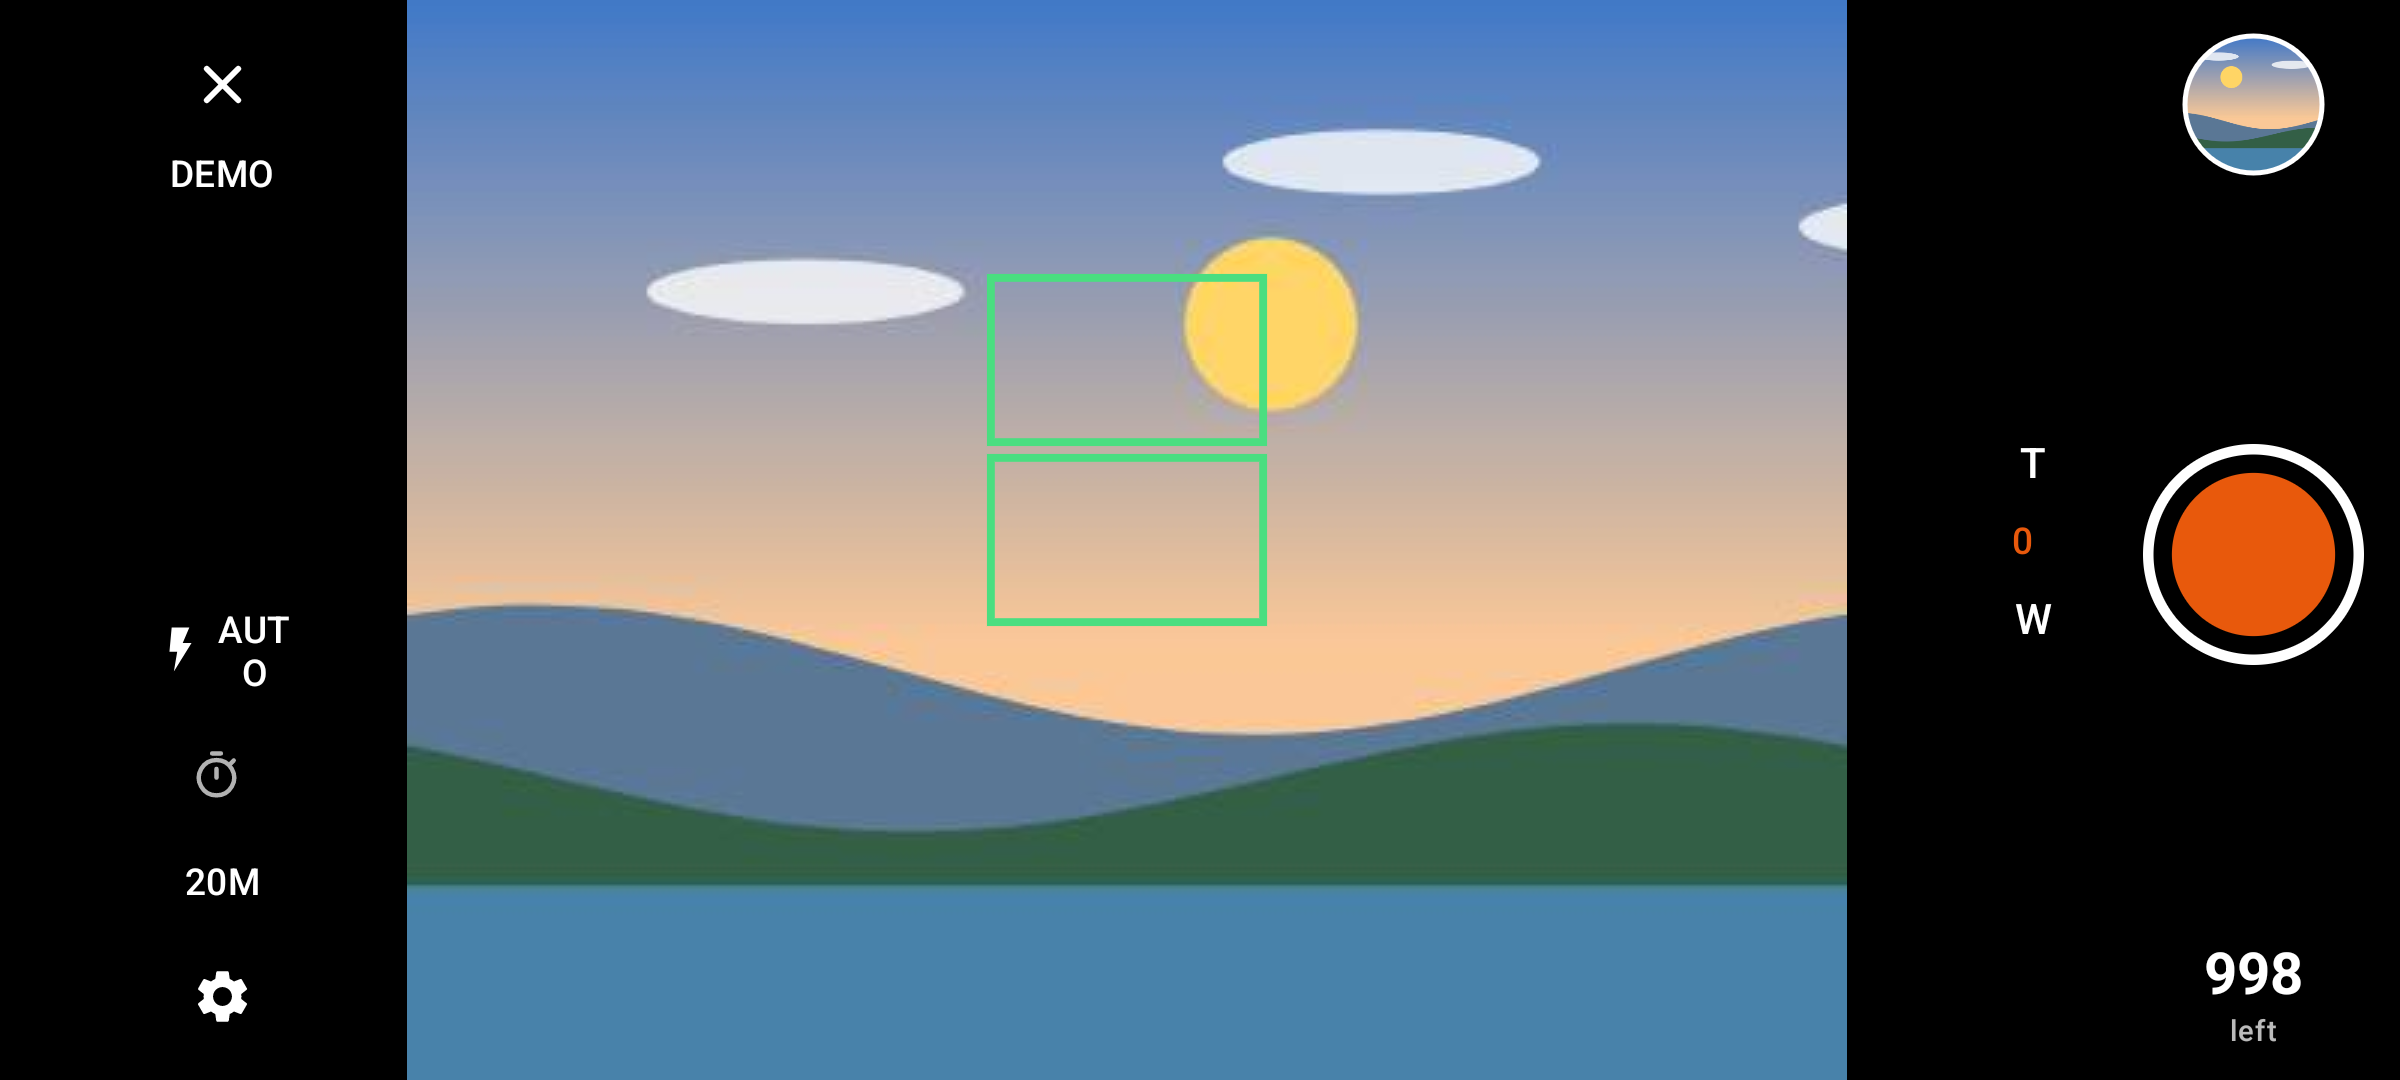
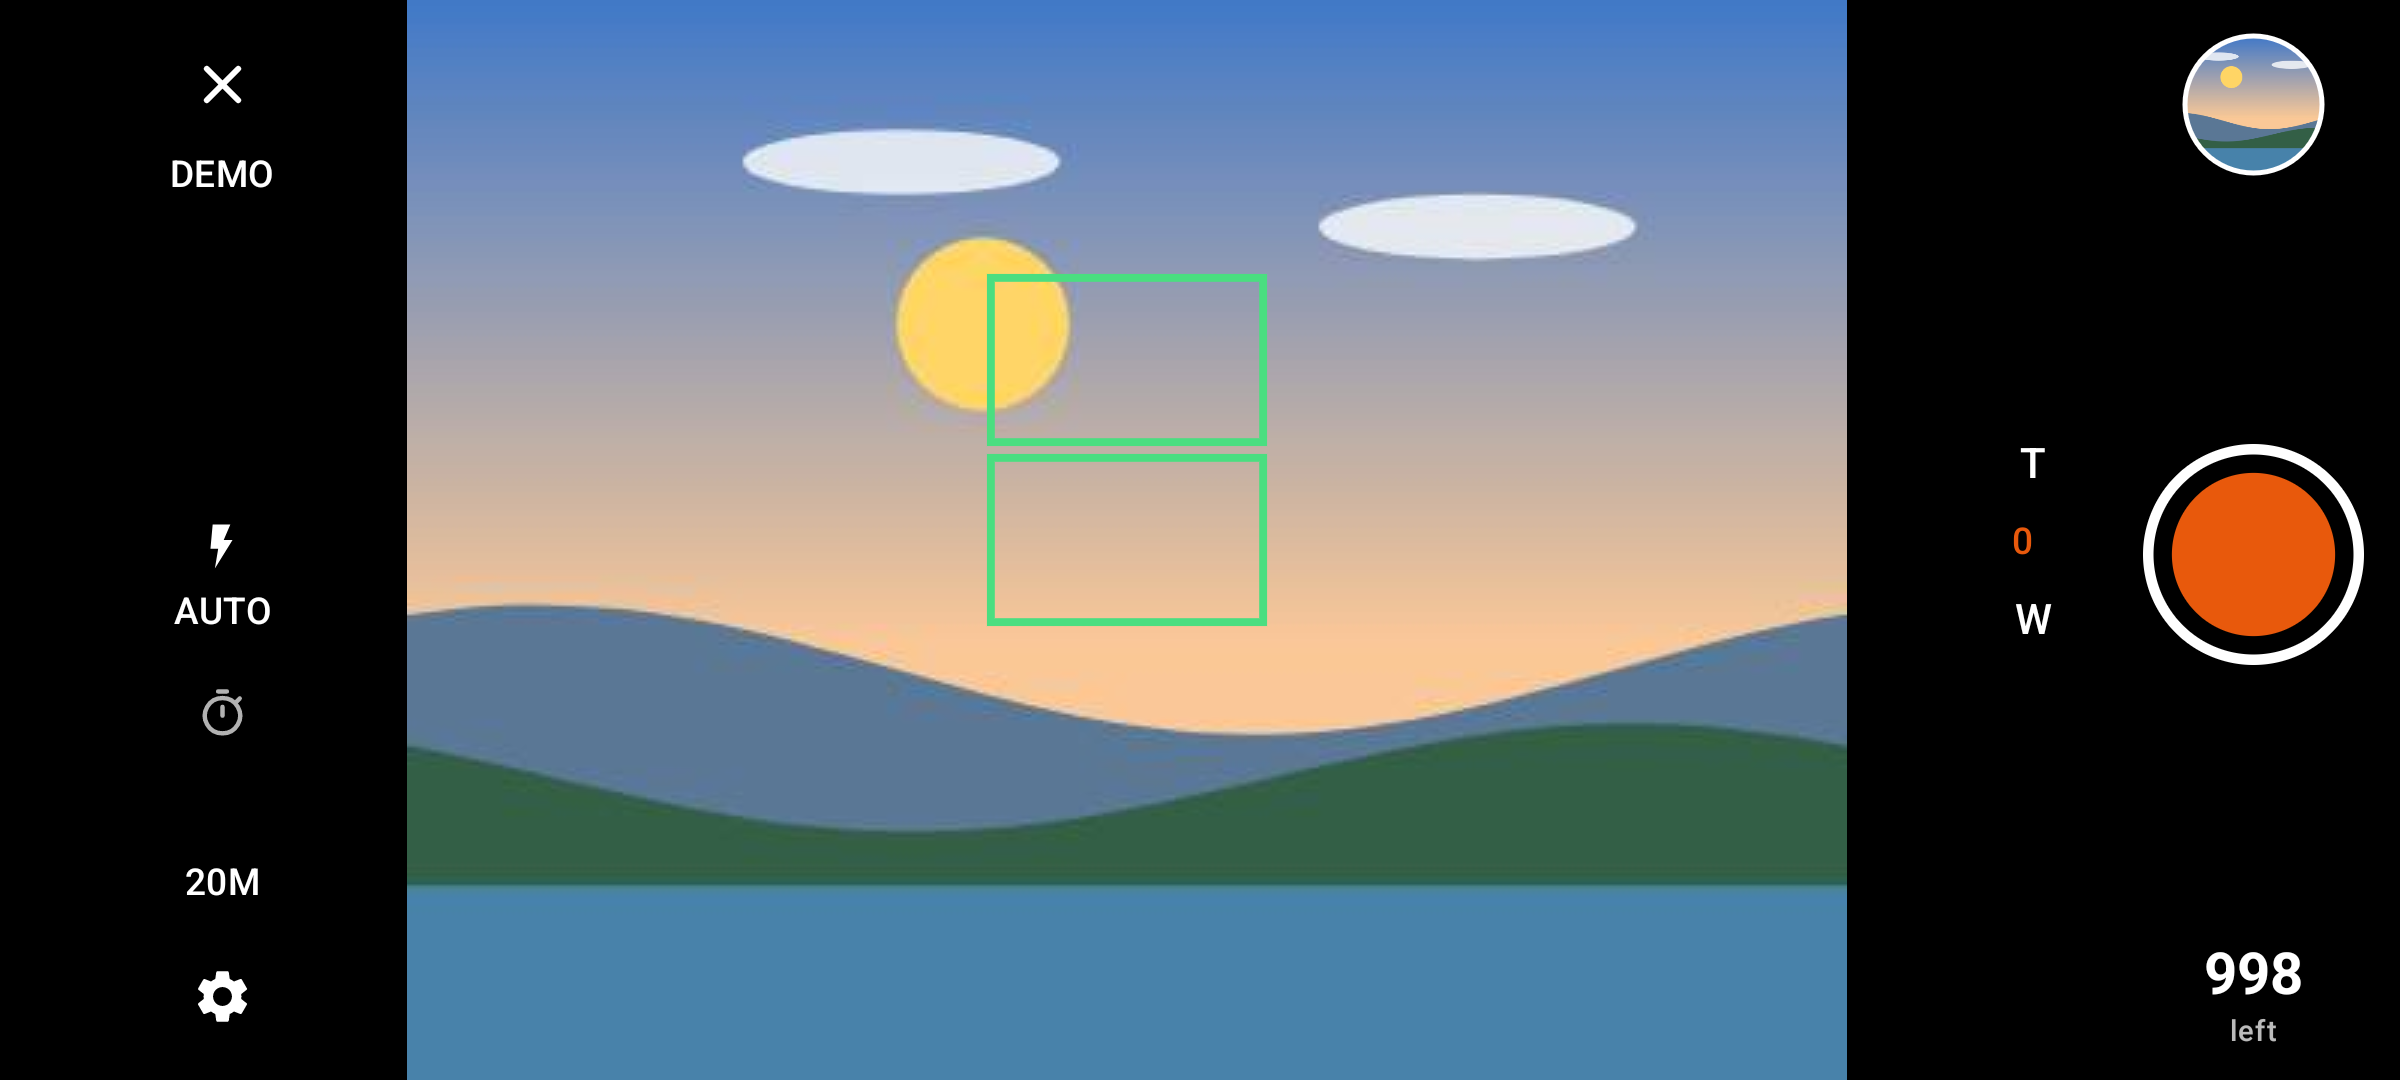
Release 0.1.1: adaptive layout; screenshots

diff --git a/CHANGELOG.md b/CHANGELOG.md
@@ -6,6 +6,8 @@ All notable changes to this project are documented here. The format follows
 
 ## [Unreleased]
 
+## [0.1.1] - 2026-11-21
+
 ### Changed
 - The live view adapts to the window: top bar, picture and controls stacked in tall windows,
   settings and shutter in columns beside the picture in wide ones (landscape, split screen),
